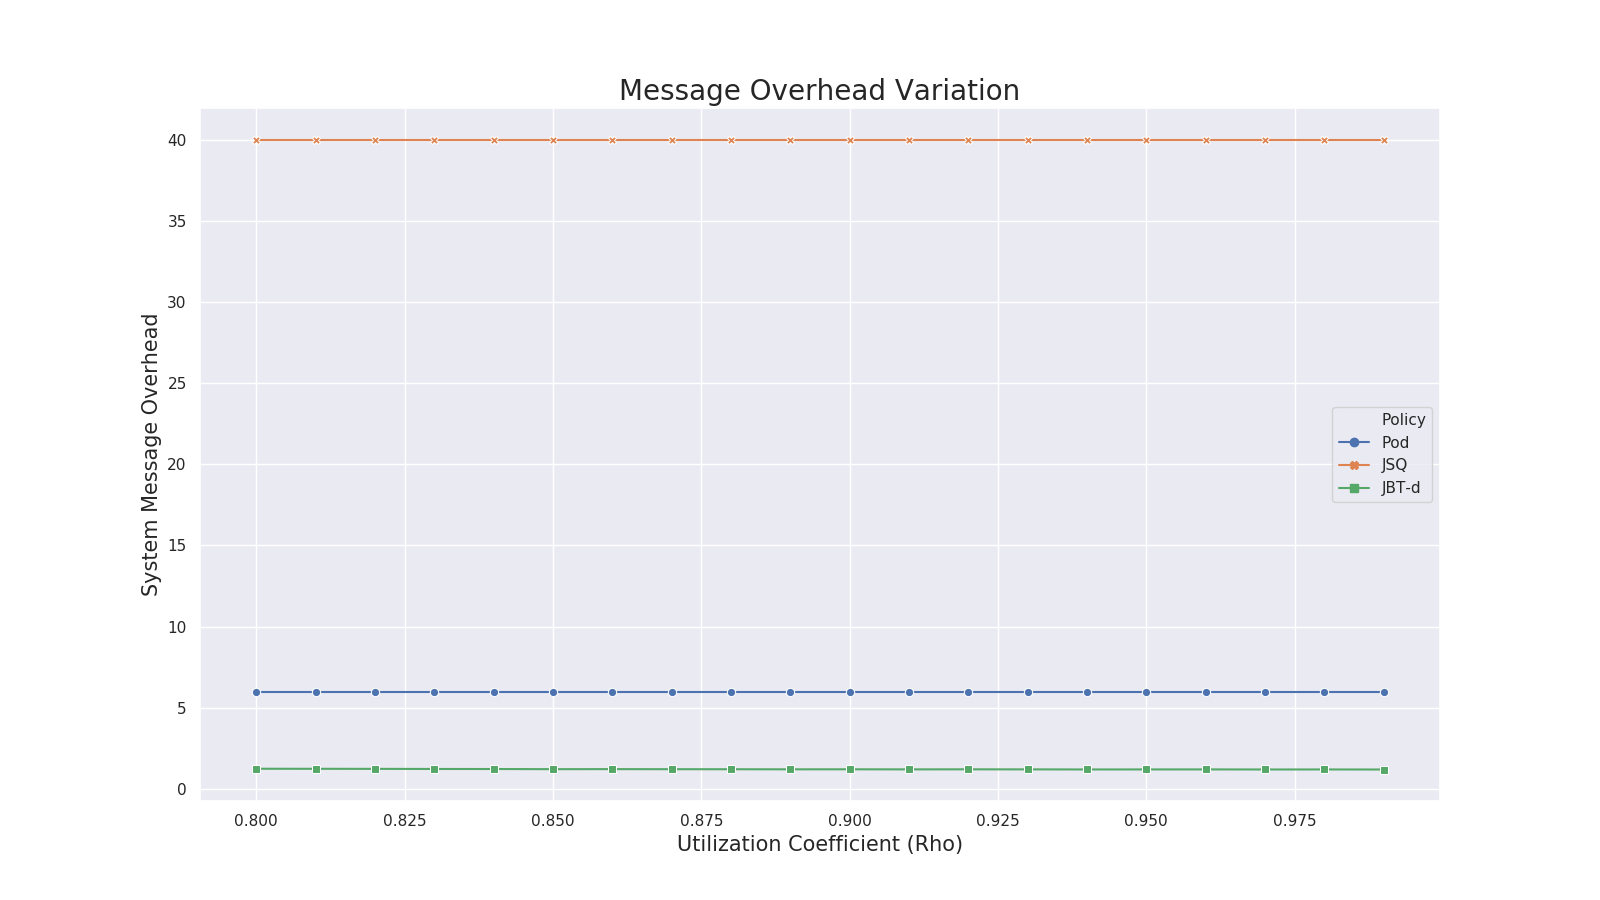
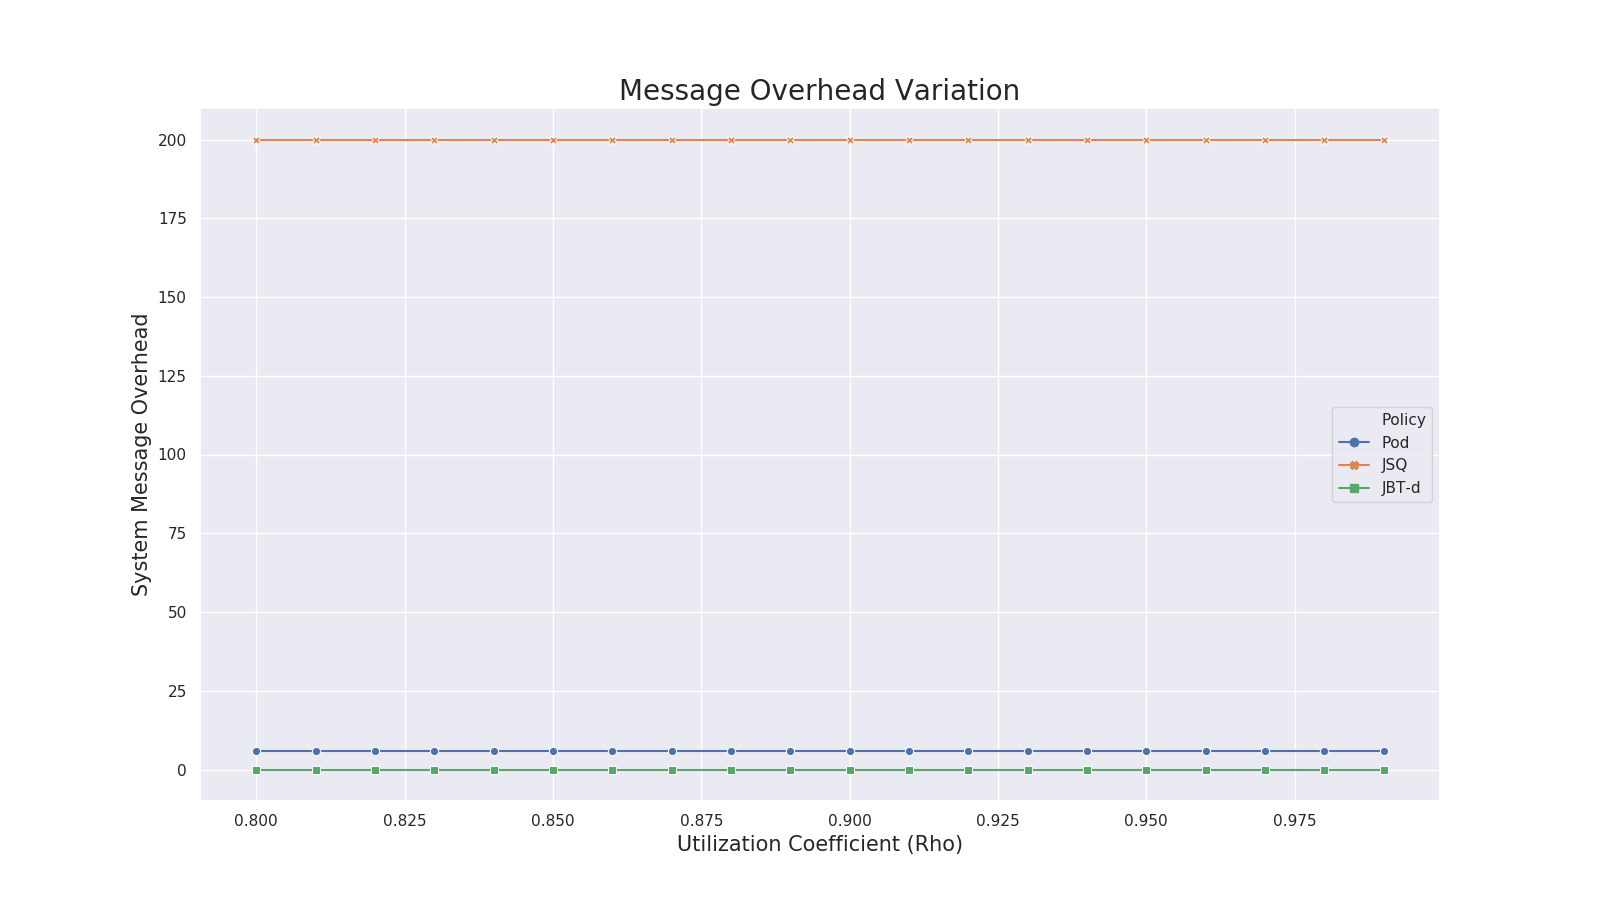
Fix servers_below_threshold update at every task

diff --git a/Dispatcher.py b/Dispatcher.py
@@ -123,6 +123,7 @@ class Dispatcher:
     def process_tasks_jbt(self):
         t_units = 0
         threshold = float("+inf")
+        servers_below_threshold = []
 
         for time in self.tasks_timeline:
             overhead_temp = 0
@@ -134,6 +135,7 @@ class Dispatcher:
                     self.servers.keys(), self.d, time)
                 threshold = max(
                     1, self.get_queue_len(server_id, time))
+                overhead_temp += self.number_of_servers
                 servers_below_threshold = []
                 # search for all the servers below threshold
                 for id in self.servers:
@@ -156,11 +158,18 @@ class Dispatcher:
                     server_id = random.sample(list(self.servers.keys()), 1)[0]
 
             self.assign_task(time, server_id)
-            self.overhead += overhead_temp + 1
+            # self.overhead += overhead_temp + 1
             try:
                 servers_below_threshold.remove(server_id)
             except:
                 continue
+
+            for id in self.servers:
+                if id not in servers_below_threshold:
+                    n_tasks = self.get_queue_len(id, time)
+                    if n_tasks < threshold:
+                        servers_below_threshold.append(id)
+
         self.overhead /= self.number_of_tasks
 
     # def rotate_servers(self, s_low, s_medium, s_high):

diff --git a/main.py b/main.py
@@ -6,7 +6,7 @@ from time import time
 from simulation_utils import Simulator, plot
 
 
-number_of_tasks = (10**4)
+number_of_tasks = (10**5)
 number_of_servers = 20
 d = 3
 rho_values = np.arange(0.8, 1., 0.01)
@@ -120,7 +120,7 @@ if __name__ == "__main__":
             mean_system_times_jbt, overheads_jbt = simulator.multiprocessing_simulation(
                 rho_values, n_proc, jbt=True)
 
-            filename = 'single_simulation_'
+            filename = 'single_simulation_test_1_'
 
     end = time()
     print("Simulation completed in", int(end-start), "seconds!\n\n")
